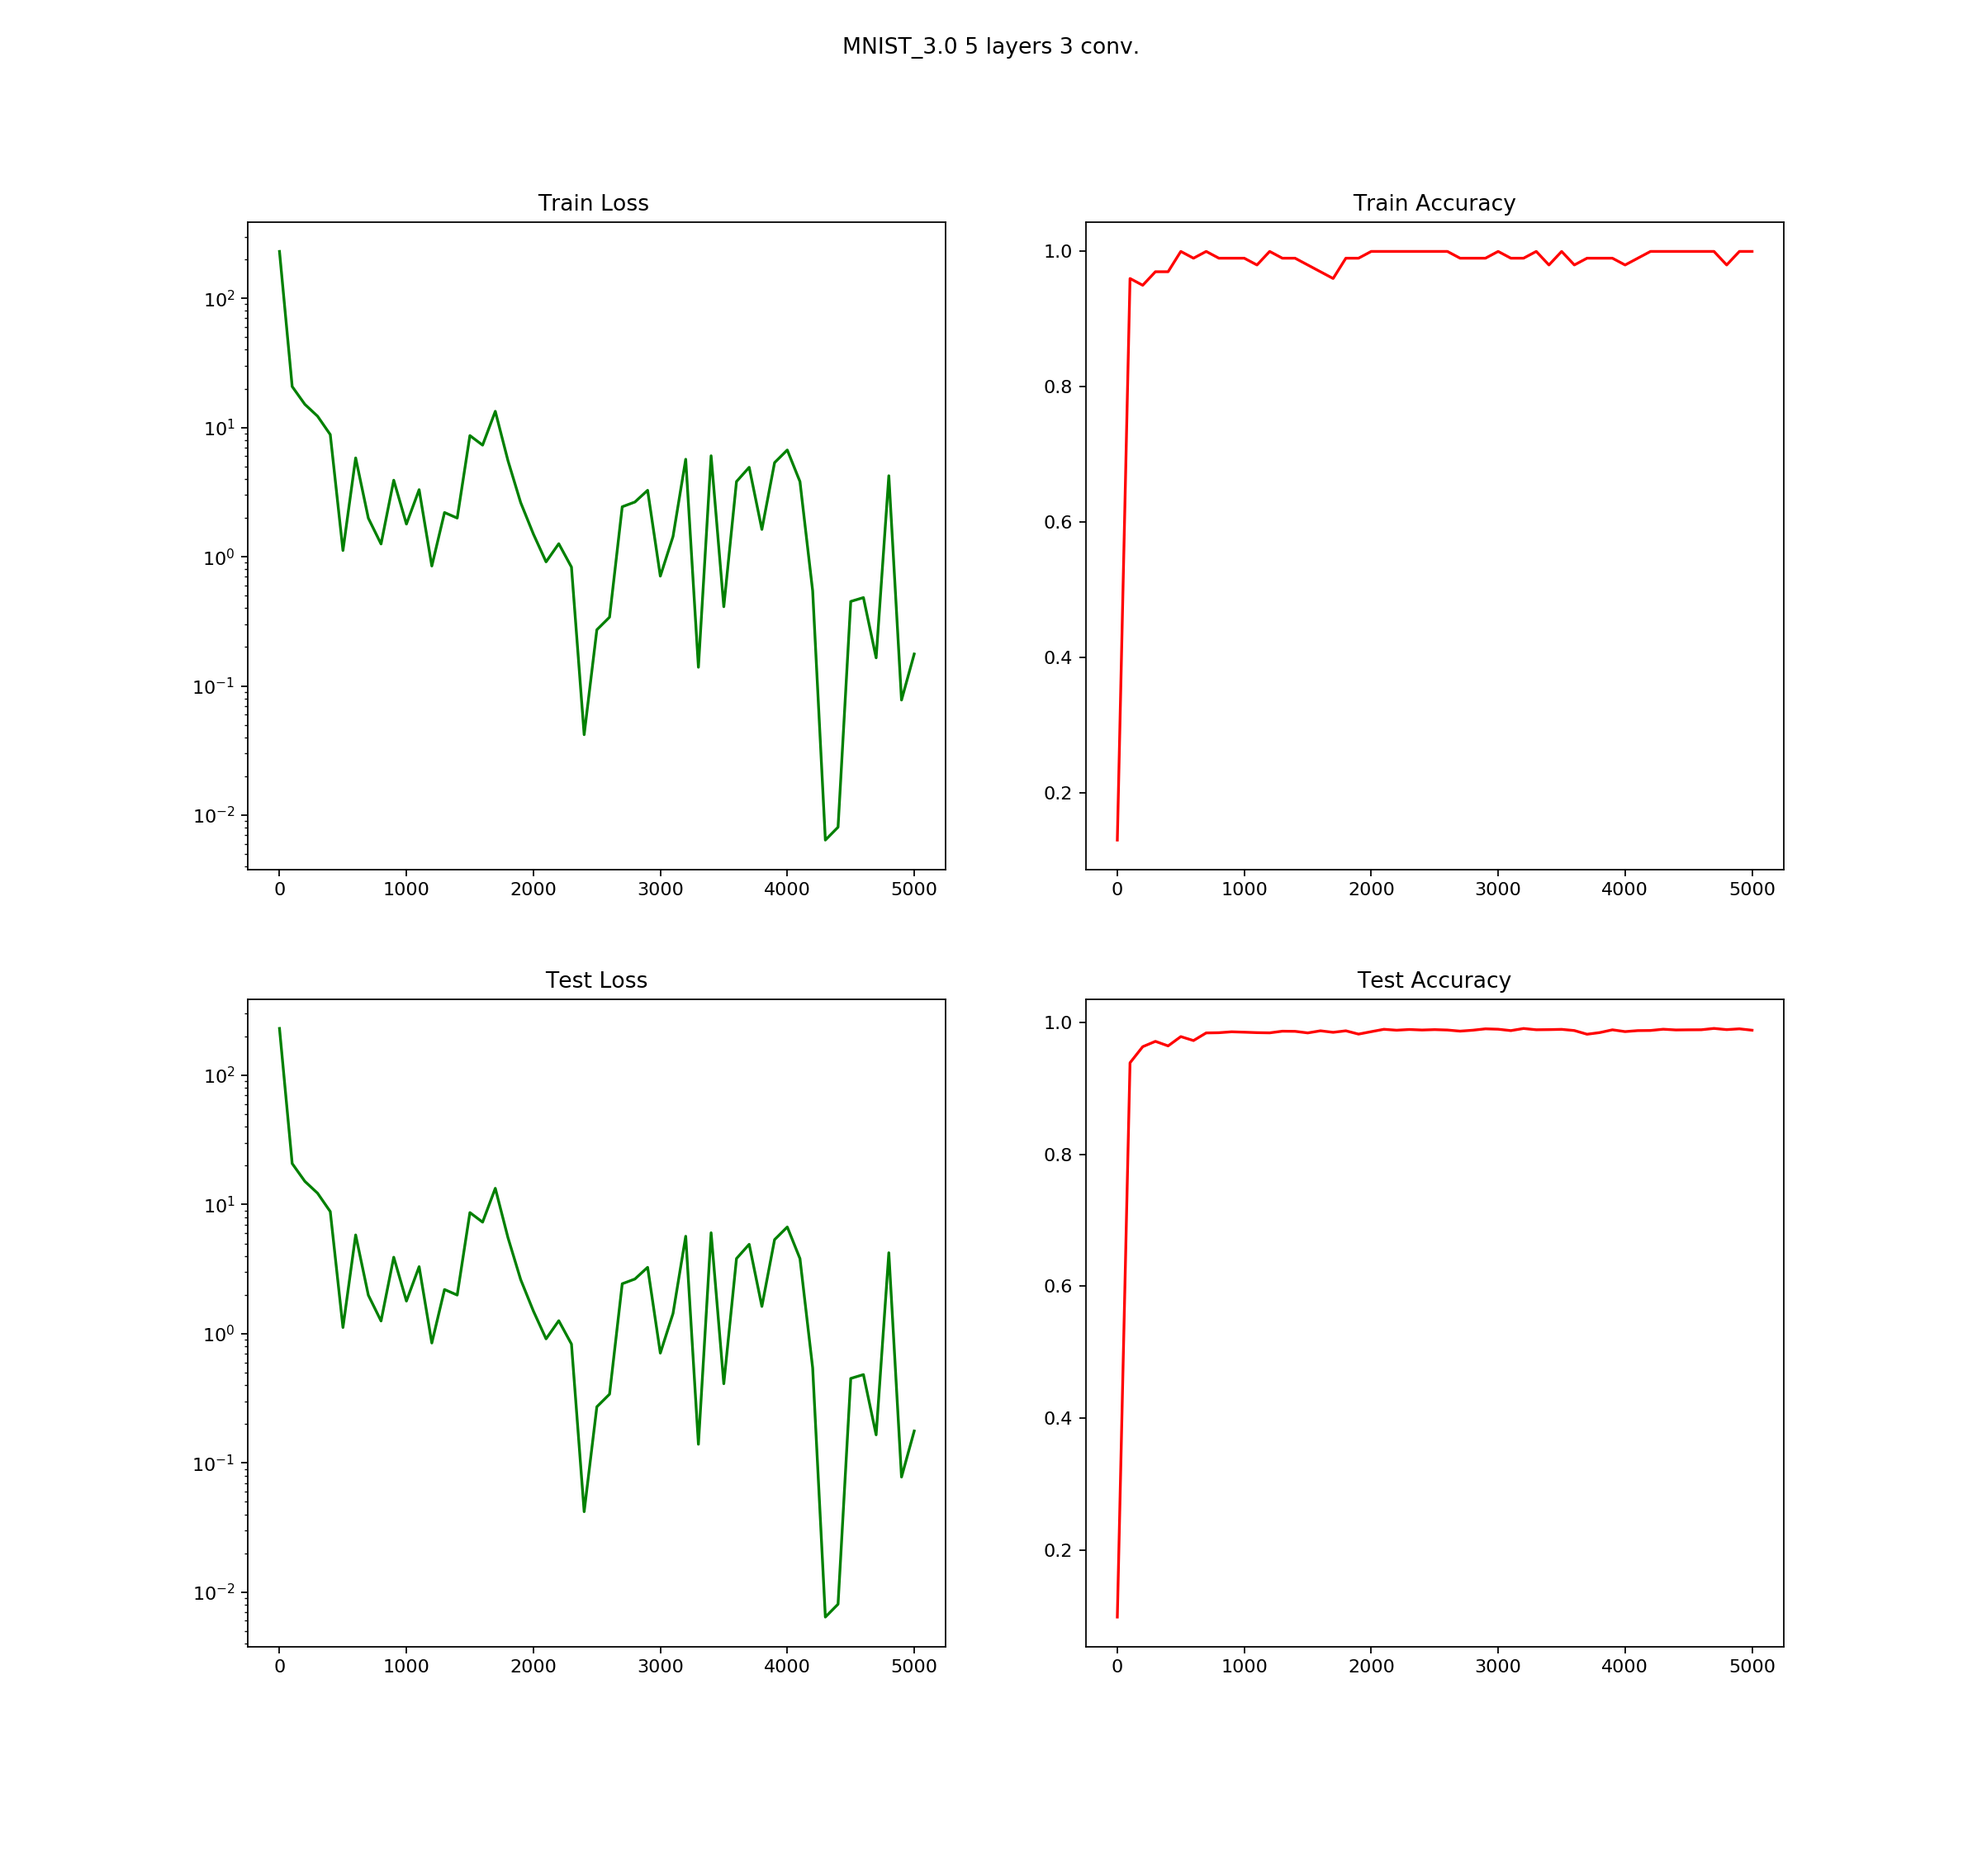
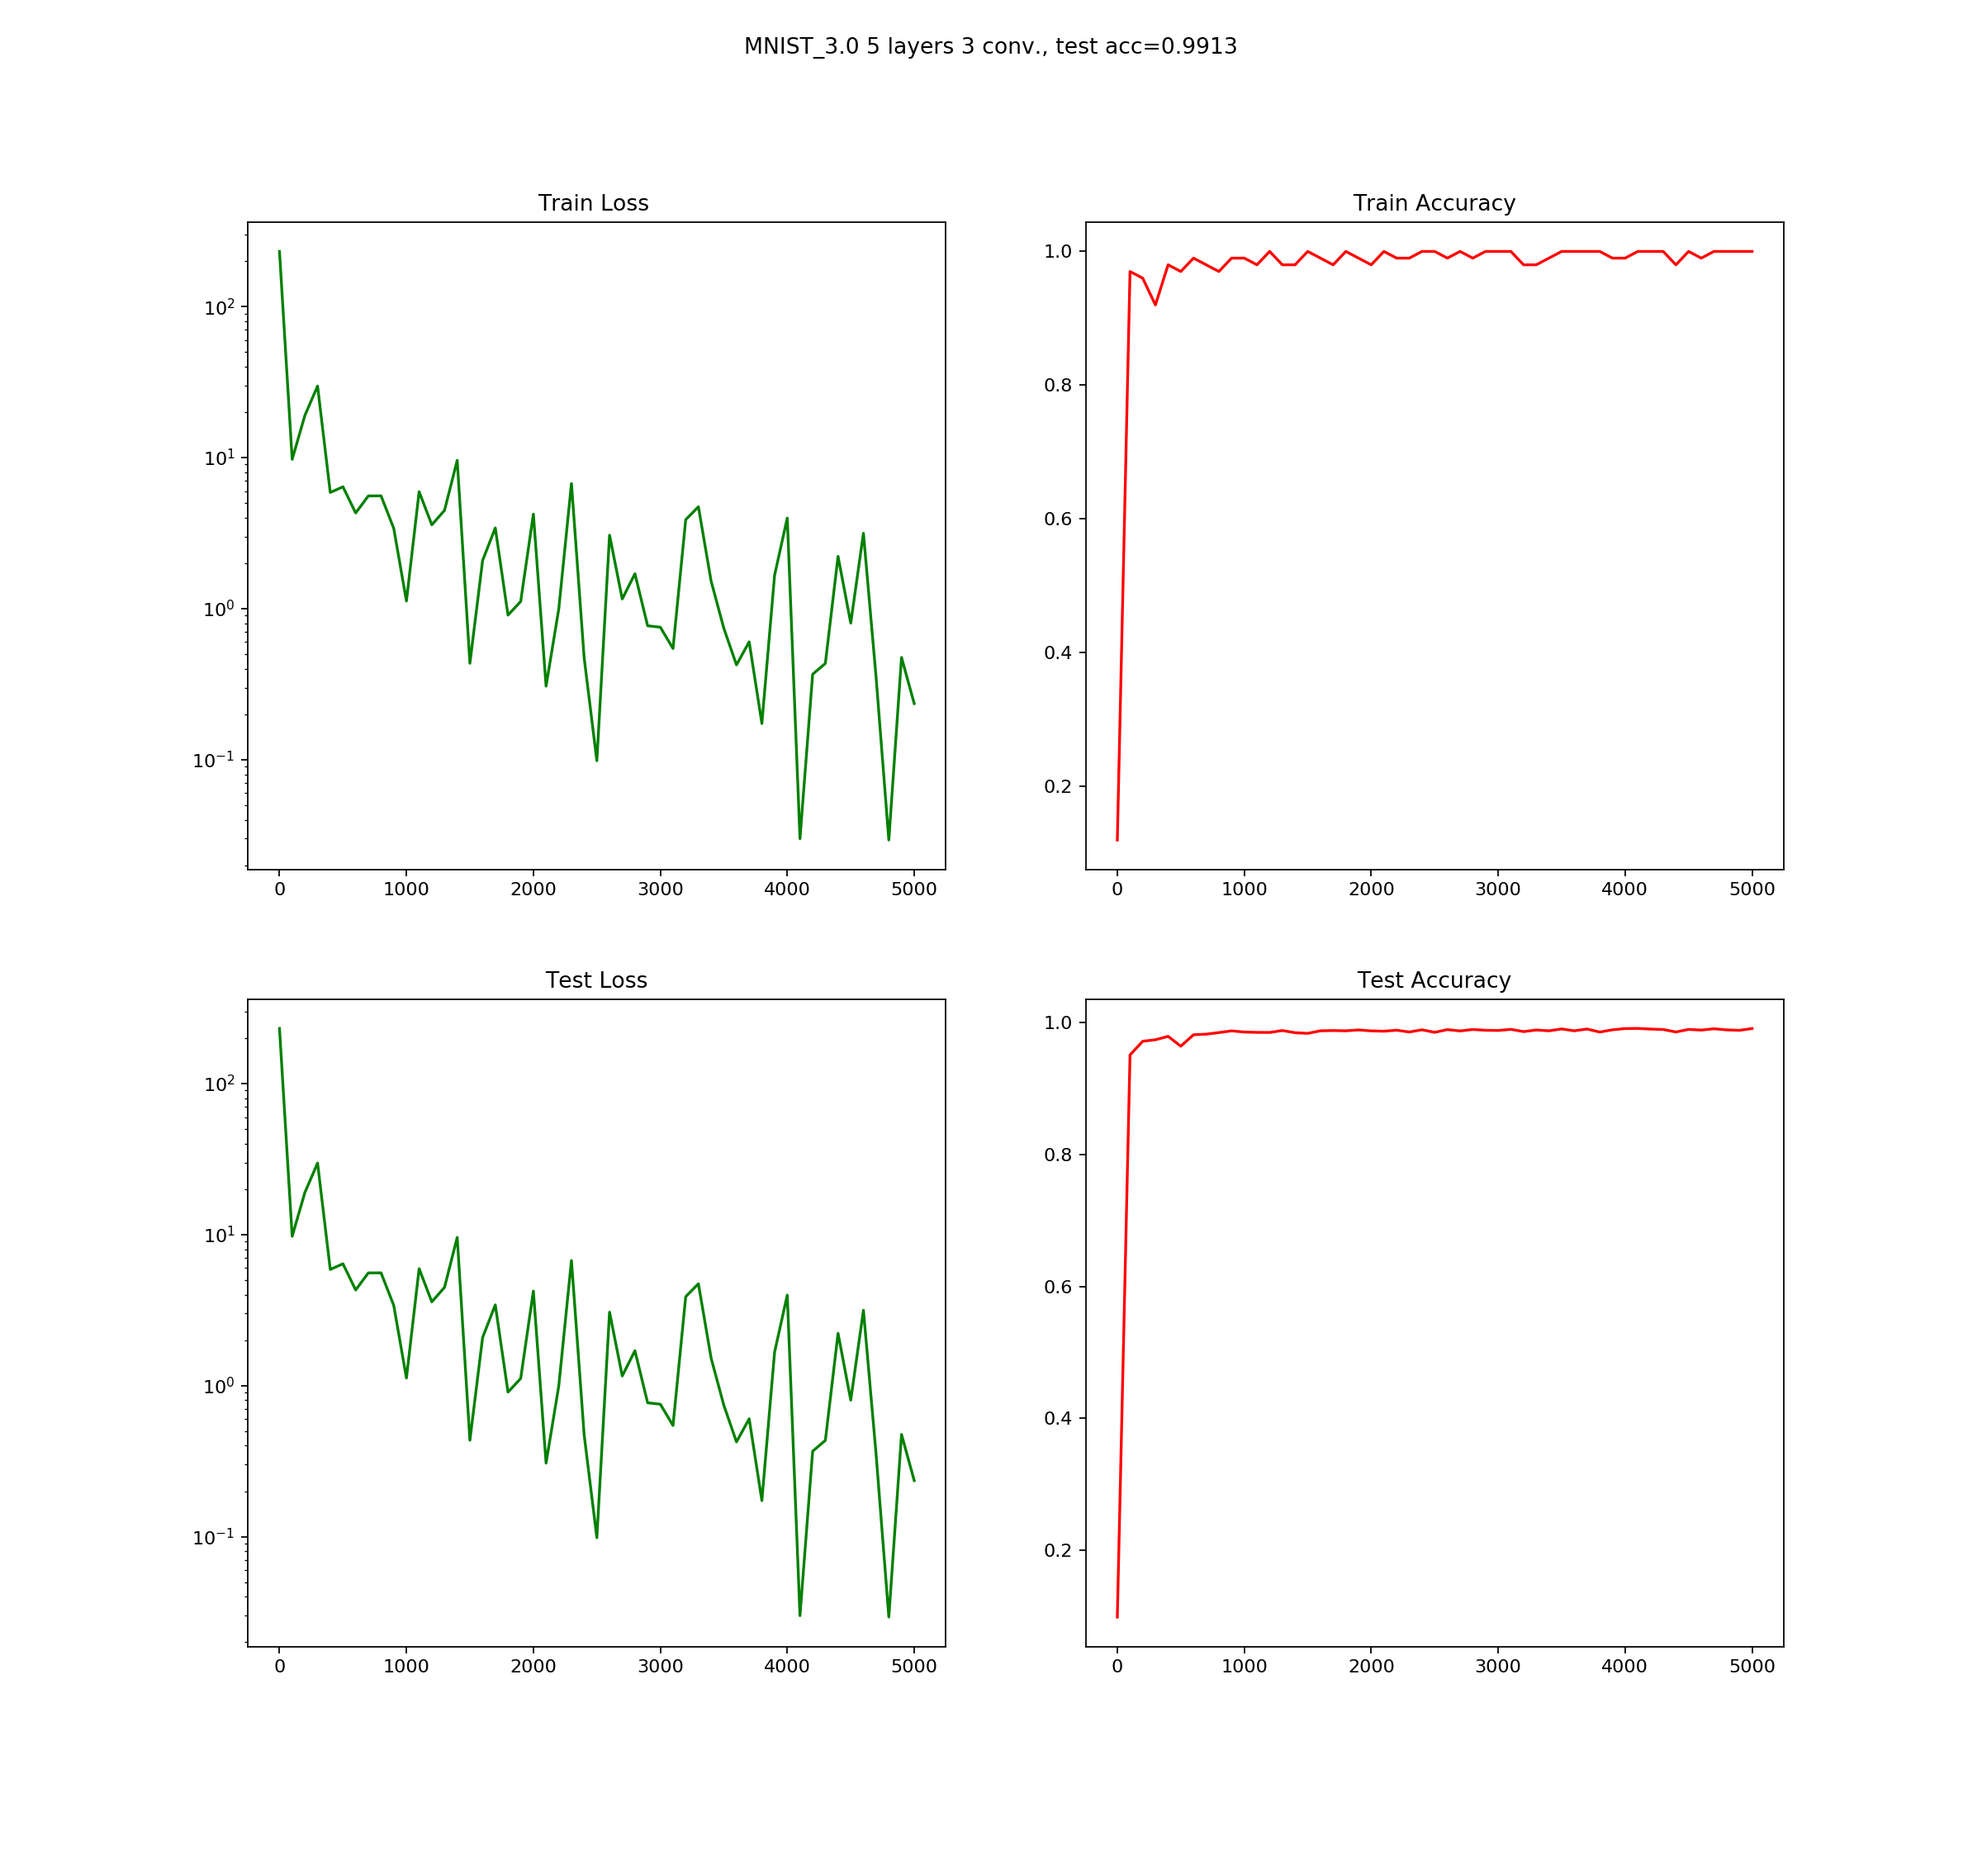
Add more comments

diff --git a/mnist_3.0_3layer_convnet.py b/mnist_3.0_3layer_convnet.py
@@ -5,13 +5,12 @@
 # Licensed under the MIT
 
 # Network architecture:
-# 5 layer neural network with 3 convolution layers, input layer 28*28= 784, output 10 (10 digits)
+# 5 layer neural network with 3 convolution layers, input layer 28x28x1, output 10 (10 digits)
 # Output labels uses one-hot encoding
 
-# input layer               - X[batch, 784]
+# input layer               - X[batch, 28, 28]
 # 1 conv. layer             - W1[5,5,,1,C1] + b1[C1]
 #                             Y1[batch, 28, 28, C1]
-#  
 # 2 conv. layer             - W2[3, 3, C1, C2] + b2[C2]
 # 2.1 max pooling filter 2x2, stride 2 - down sample the input (rescale input by 2) 28x28-> 14x14
 #                             Y2[batch, 14,14,C2] 
@@ -157,7 +156,6 @@ with tf.Session() as sess:
             # compute training values for visualisation
             acc_trn, loss_trn, w, b = sess.run([accuracy, cross_entropy, allweights, allbiases], feed_dict={X: batch_X, Y_: batch_Y, pkeep: 1.0})
             
-            
             acc_tst, loss_tst = sess.run([accuracy, cross_entropy], feed_dict={X: mnist.test.images, Y_: mnist.test.labels, pkeep: 1.0})
             
             print("#{} Trn acc={} , Trn loss={} Tst acc={} , Tst loss={}".format(i,acc_trn,loss_trn,acc_tst,loss_tst))
@@ -176,18 +174,12 @@ vis.losses_accuracies_plots(train_losses,train_acc,test_losses, test_acc,title,D
 
 
 
-# Restults
-# mnist_single_layer_nn.py acc= 0.9237 
-# mnist__layer_nn.py TST acc = 0.9534
-# mnist__layer_nn_relu_adam.py TST acc = 0.9771
-# mnist__layer_nn_relu_adam_dropout.py TST acc = 0.9732
+# Restults Test accuracy:
+# mnist_1.0_single_layer_nn acc= 0.9237 
+# mnist_2.0_5_layer_nn.py  acc = 0.9534
+# mnist_2.1_5_layer_nn_relu_adam.py acc = 0.9771
+# mnist_2.1_5_layer_nn_relu_adam_dropout.py acc = 0.9732
+# mnist_3.0_3layer_convnet.py acc= 0.9880
 
 # sample output for 5k iterations
-#0 Trn acc=0.10000000149011612 , Trn loss=229.3443603515625 Tst acc=0.11999999731779099 , Tst loss=230.12518310546875
-#100 Trn acc=0.9300000071525574 , Trn loss=30.25579071044922 Tst acc=0.8877000212669373 , Tst loss=35.22196578979492
-#200 Trn acc=0.8799999952316284 , Trn loss=33.183040618896484 Tst acc=0.9417999982833862 , Tst loss=19.18865966796875
-#300 Trn acc=0.9399999976158142 , Trn loss=21.5306396484375 Tst acc=0.9406999945640564 , Tst loss=19.576183319091797
-# ...
-#4800 Trn acc=0.9700000286102295 , Trn loss=11.897256851196289 Tst acc=0.9749000072479248 , Tst loss=9.952529907226562
-#4900 Trn acc=0.9800000190734863 , Trn loss=4.757292747497559 Tst acc=0.974399983882904 , Tst loss=11.507346153259277
-#5000 Trn acc=0.9900000095367432 , Trn loss=4.661561012268066 Tst acc=0.9732999801635742 , Tst loss=11.199274063110352
+

diff --git a/mnist_1.0_single_layer_nn.py b/mnist_1.0_single_layer_nn.py
@@ -78,9 +78,6 @@ allweights = tf.reshape(W, [-1])
 allbiases = tf.reshape(b, [-1])
 
 
-
-
-
 # Initializing the variables
 init = tf.global_variables_initializer()
 
@@ -103,8 +100,7 @@ with tf.Session() as sess:
         if i%DISPLAY_STEP ==0:
             # compute training values for visualisation
             acc_trn, loss_trn, w, b = sess.run([accuracy, cross_entropy, allweights, allbiases], feed_dict={X: batch_X, Y_: batch_Y})
-            
-            
+                        
             acc_tst, loss_tst = sess.run([accuracy, cross_entropy], feed_dict={X: mnist.test.images, Y_: mnist.test.labels})
             
             print("#{} Trn acc={} , Trn loss={} Tst acc={} , Tst loss={}".format(i,acc_trn,loss_trn,acc_tst,loss_tst))

diff --git a/mnist_2.1_5_layer_nn_relu_adam.py b/mnist_2.1_5_layer_nn_relu_adam.py
@@ -12,9 +12,9 @@
 # 1 layer                 - W1[784, 200] + b1[200]
 #                           Y1[batch, 200] 
 # 2 layer                 - W2[200, 100] + b2[100]
-#                           Y2[batch, 200] 
+#                           Y2[batch, 100] 
 # 3 layer                 - W3[100, 60]  + b3[60]
-#                           Y3[batch, 200] 
+#                           Y3[batch, 60] 
 # 4 layer                 - W4[60, 30]   + b4[30]
 #                           Y4[batch, 30] 
 # 5 layer                 - W5[30, 10]   + b5[10]
